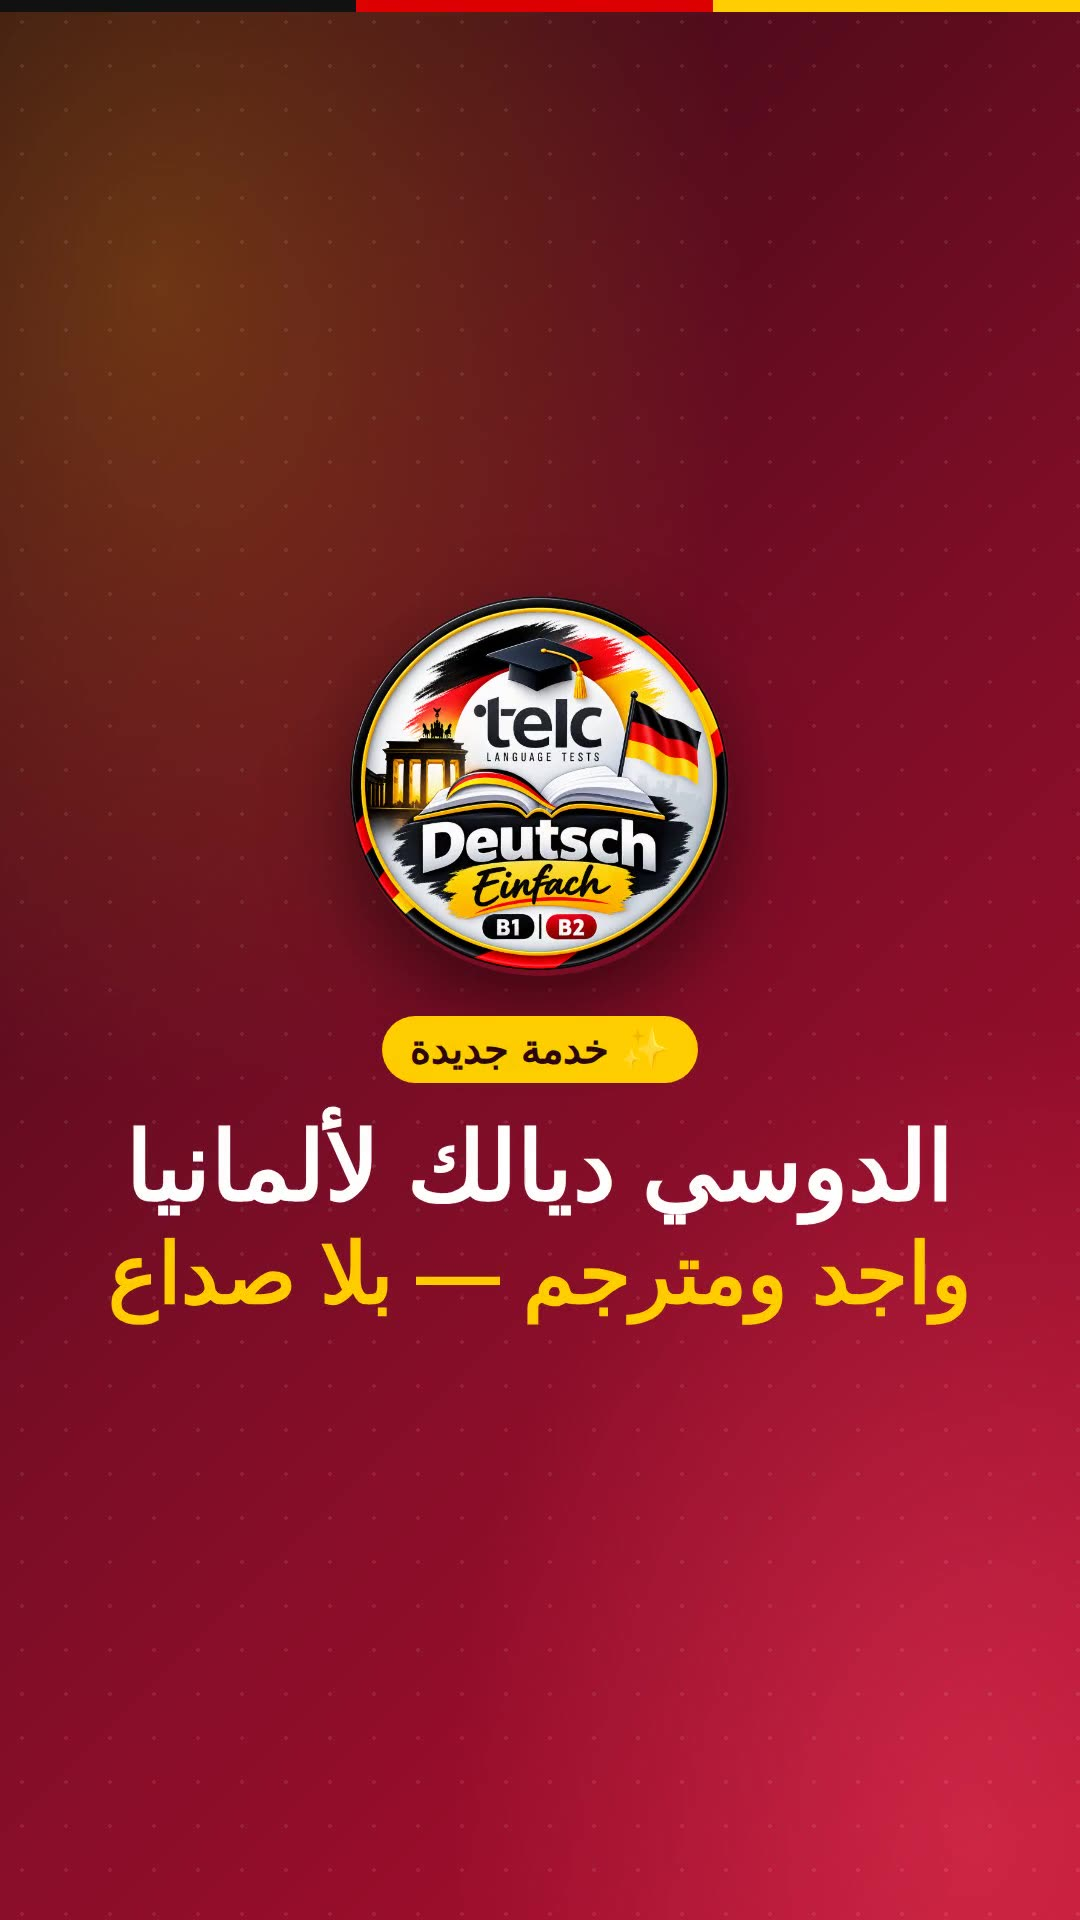
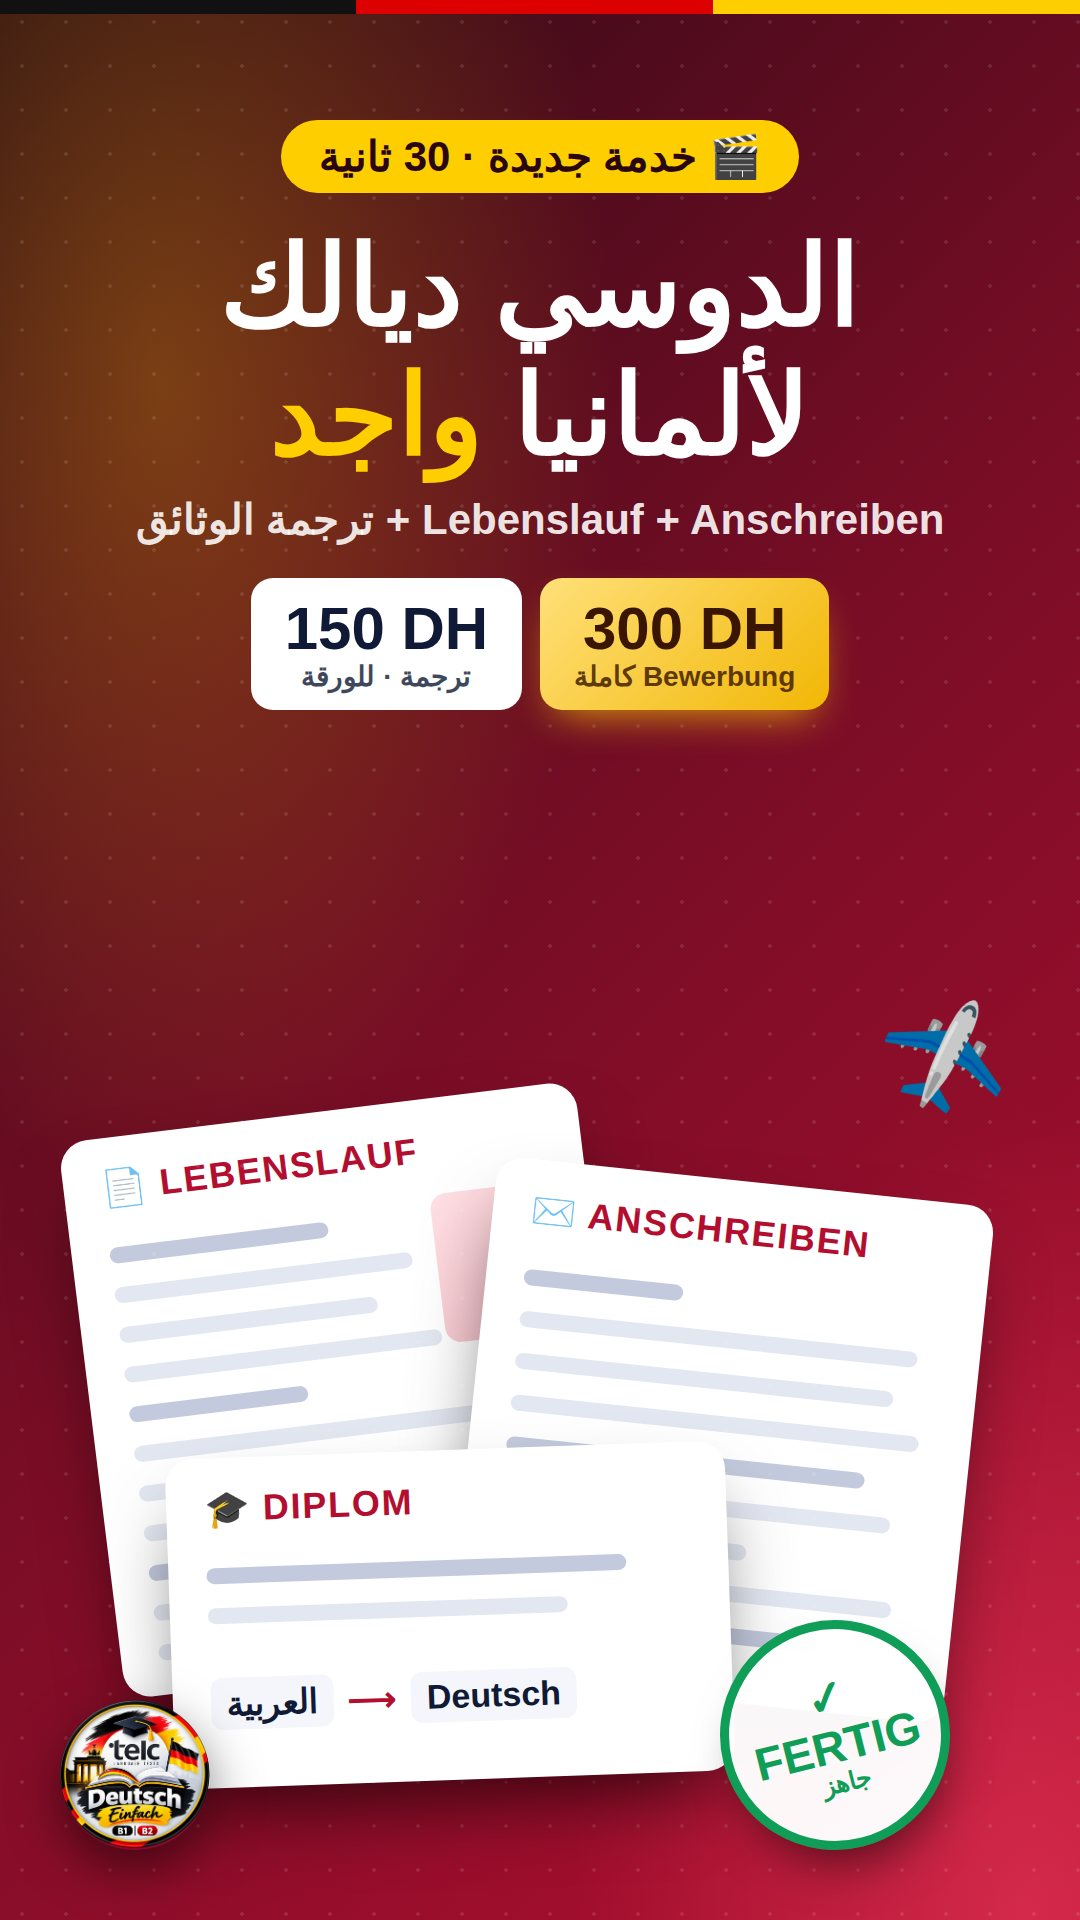
Bewerbung video: designed cover images (PC and phone)
Replace the plain frame posters with designed covers like the tutorial
video: documents (Lebenslauf, Anschreiben, Diplom with Arabic → Deutsch),
FERTIG stamp, title, both prices and the logo. On PC the play button sits
over the documents so the title and prices stay readable.

Claude-Session: https://claude.ai/code/session_0137a4wDYQhXikyjgeqcDMbW

diff --git a/index.html b/index.html
@@ -1895,13 +1895,13 @@
         <a class="bw-promo-tag" href="bewerbung.html">✨ جديد · Bewerbung و ترجمة الوثائق</a>
         <figure class="bw-promo-video">
             <div class="hv-box bw-promo-pc">
-                <video playsinline preload="none" poster="assets/video/bewerbung-pc.jpg?v=1">
+                <video playsinline preload="none" poster="assets/video/bewerbung-pc.jpg?v=2">
                     <source src="assets/video/bewerbung-pc.mp4?v=1" type="video/mp4">
                 </video>
                 <button class="hv-play" type="button" aria-label="شغّل الفيديو"></button>
             </div>
             <div class="hv-box bw-promo-mobile">
-                <video playsinline preload="none" poster="assets/video/bewerbung-mobile.jpg?v=1">
+                <video playsinline preload="none" poster="assets/video/bewerbung-mobile.jpg?v=2">
                     <source src="assets/video/bewerbung-mobile.mp4?v=1" type="video/mp4">
                 </video>
                 <button class="hv-play" type="button" aria-label="شغّل الفيديو"></button>
@@ -1922,6 +1922,7 @@
         border: 3px solid rgba(255,206,0,.55); box-shadow: 0 26px 60px -20px rgba(0,0,0,.45);
     }
     .bw-promo-mobile { display: none !important; max-width: 300px; }
+    .bw-promo-pc .hv-play { left: 30%; }   /* فوق الوثائق، ماشي فوق العنوان */
     .bw-promo-video figcaption { direction: rtl; font-weight: 800; font-size: 15px; }
     .bw-promo-video figcaption a { color: var(--accent-text, #b30e30); text-decoration: none; }
     @media (max-width: 900px) {
